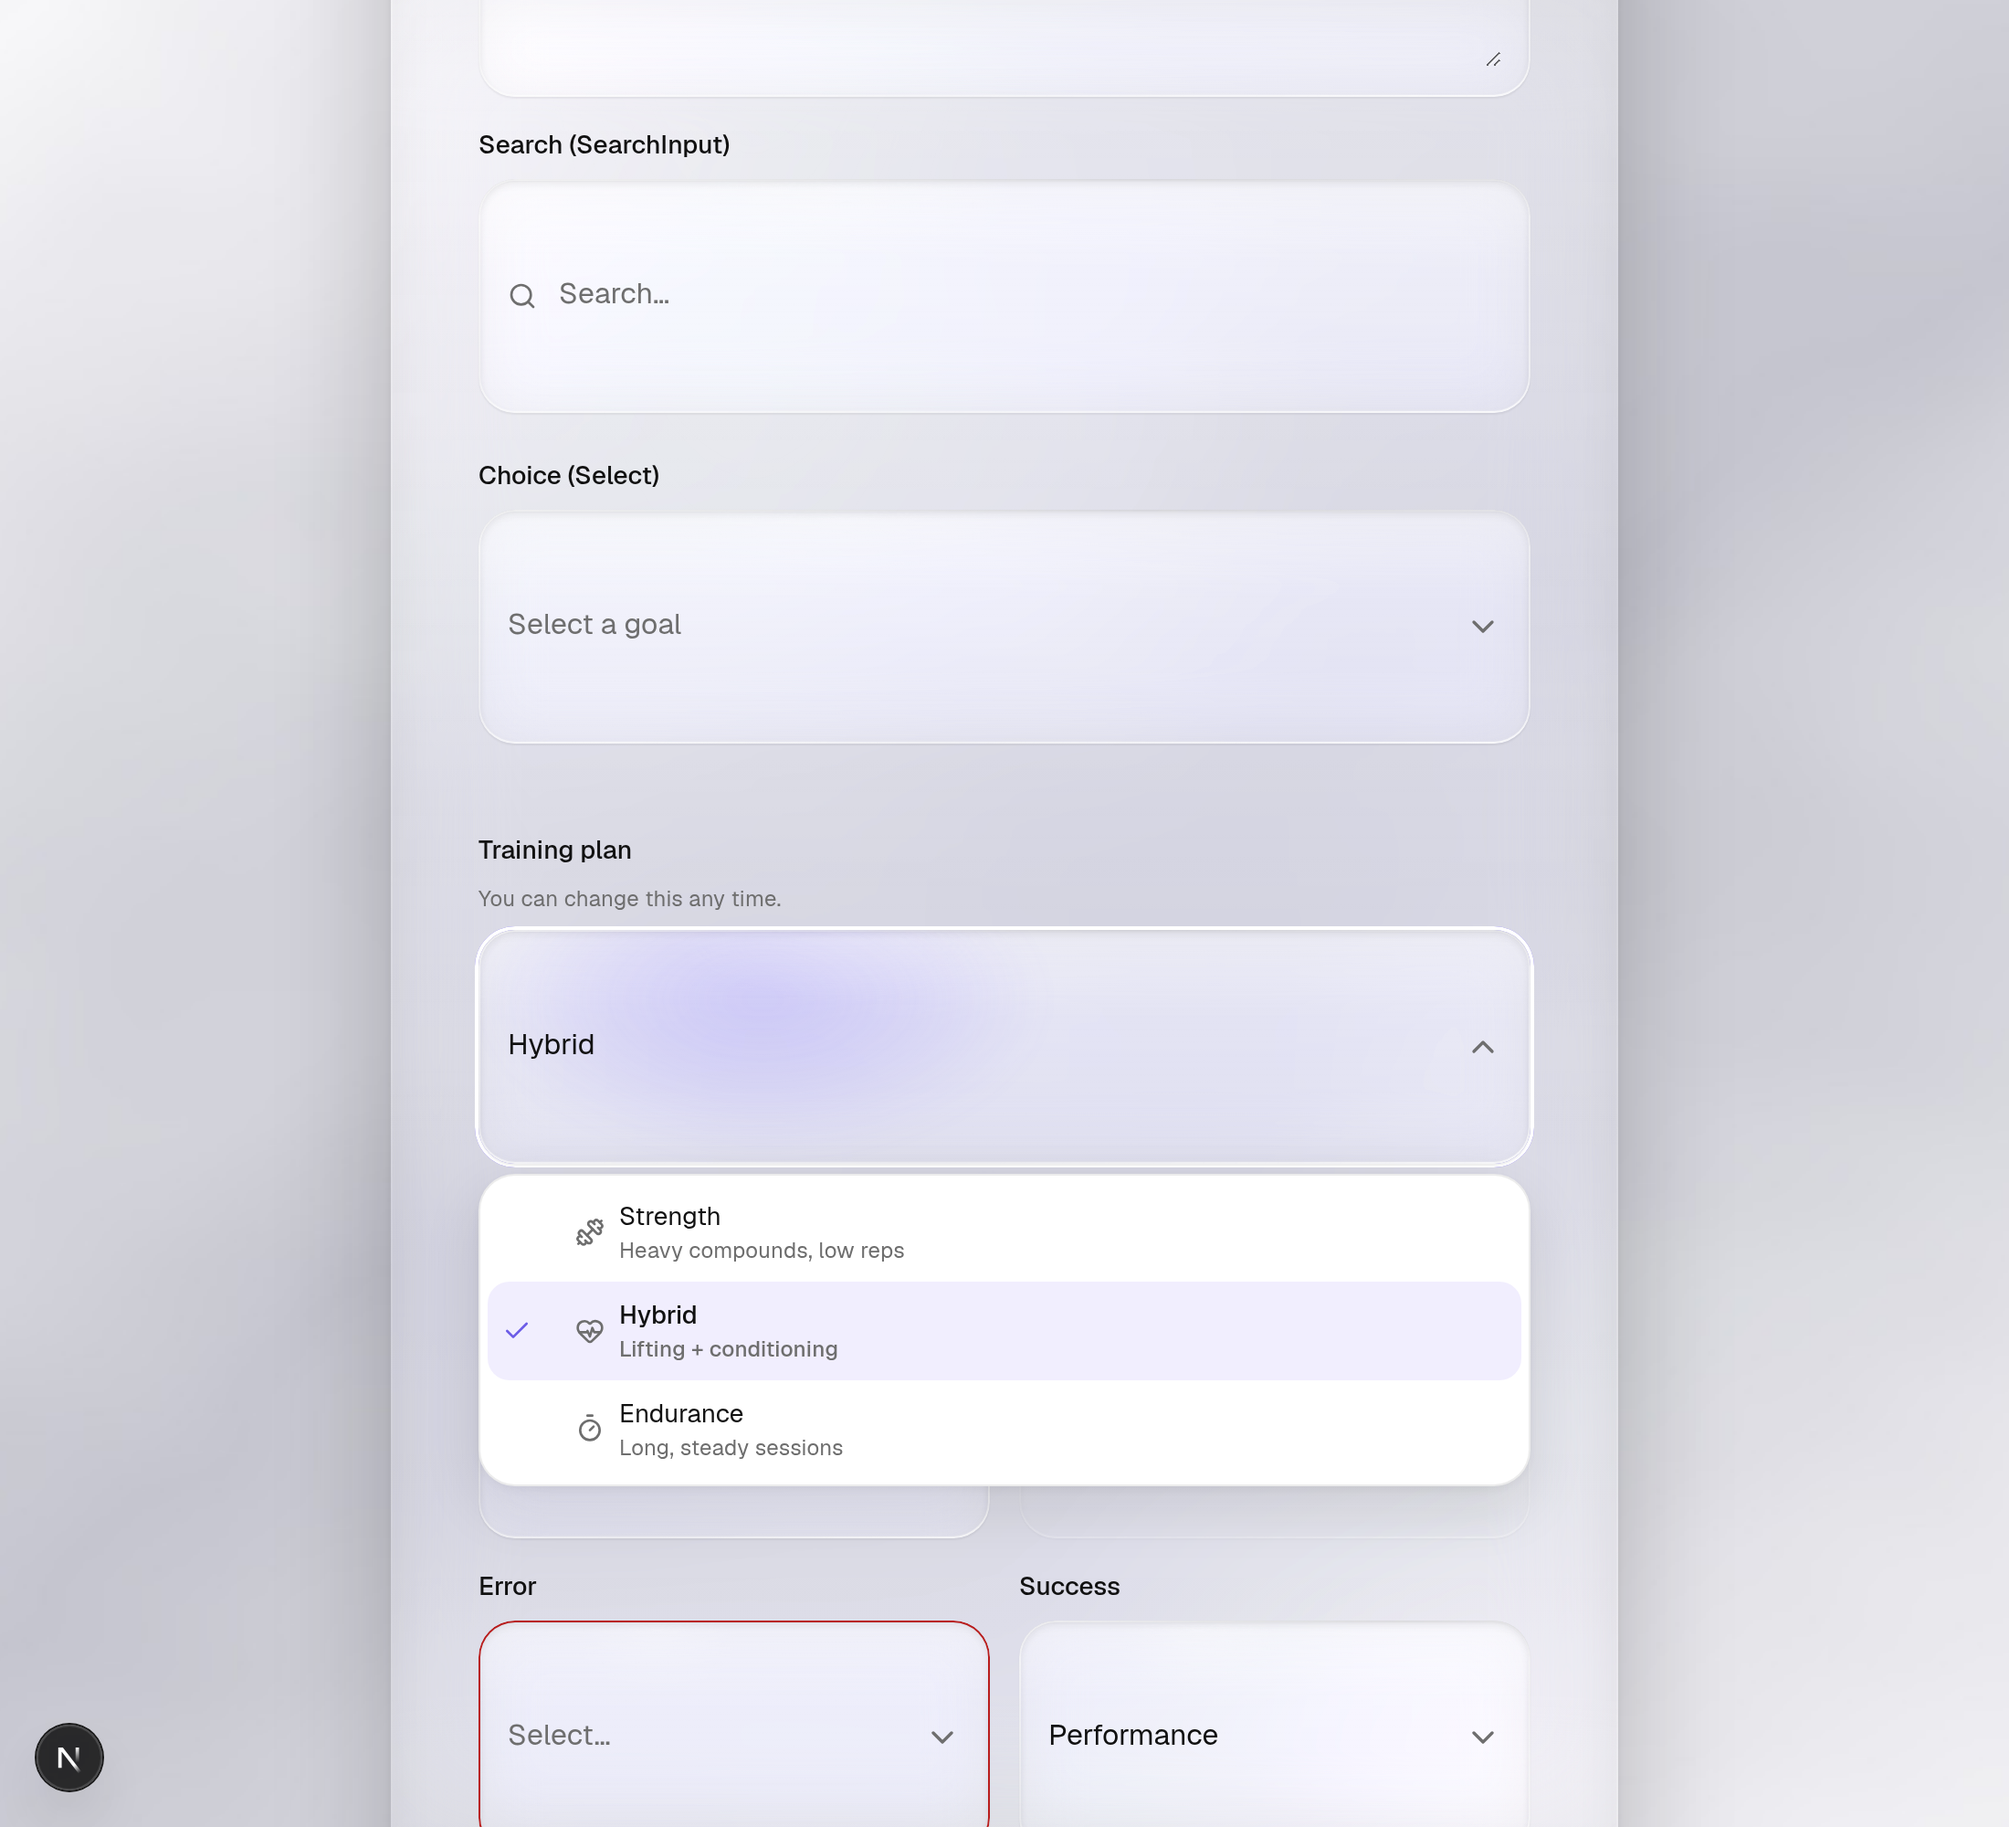
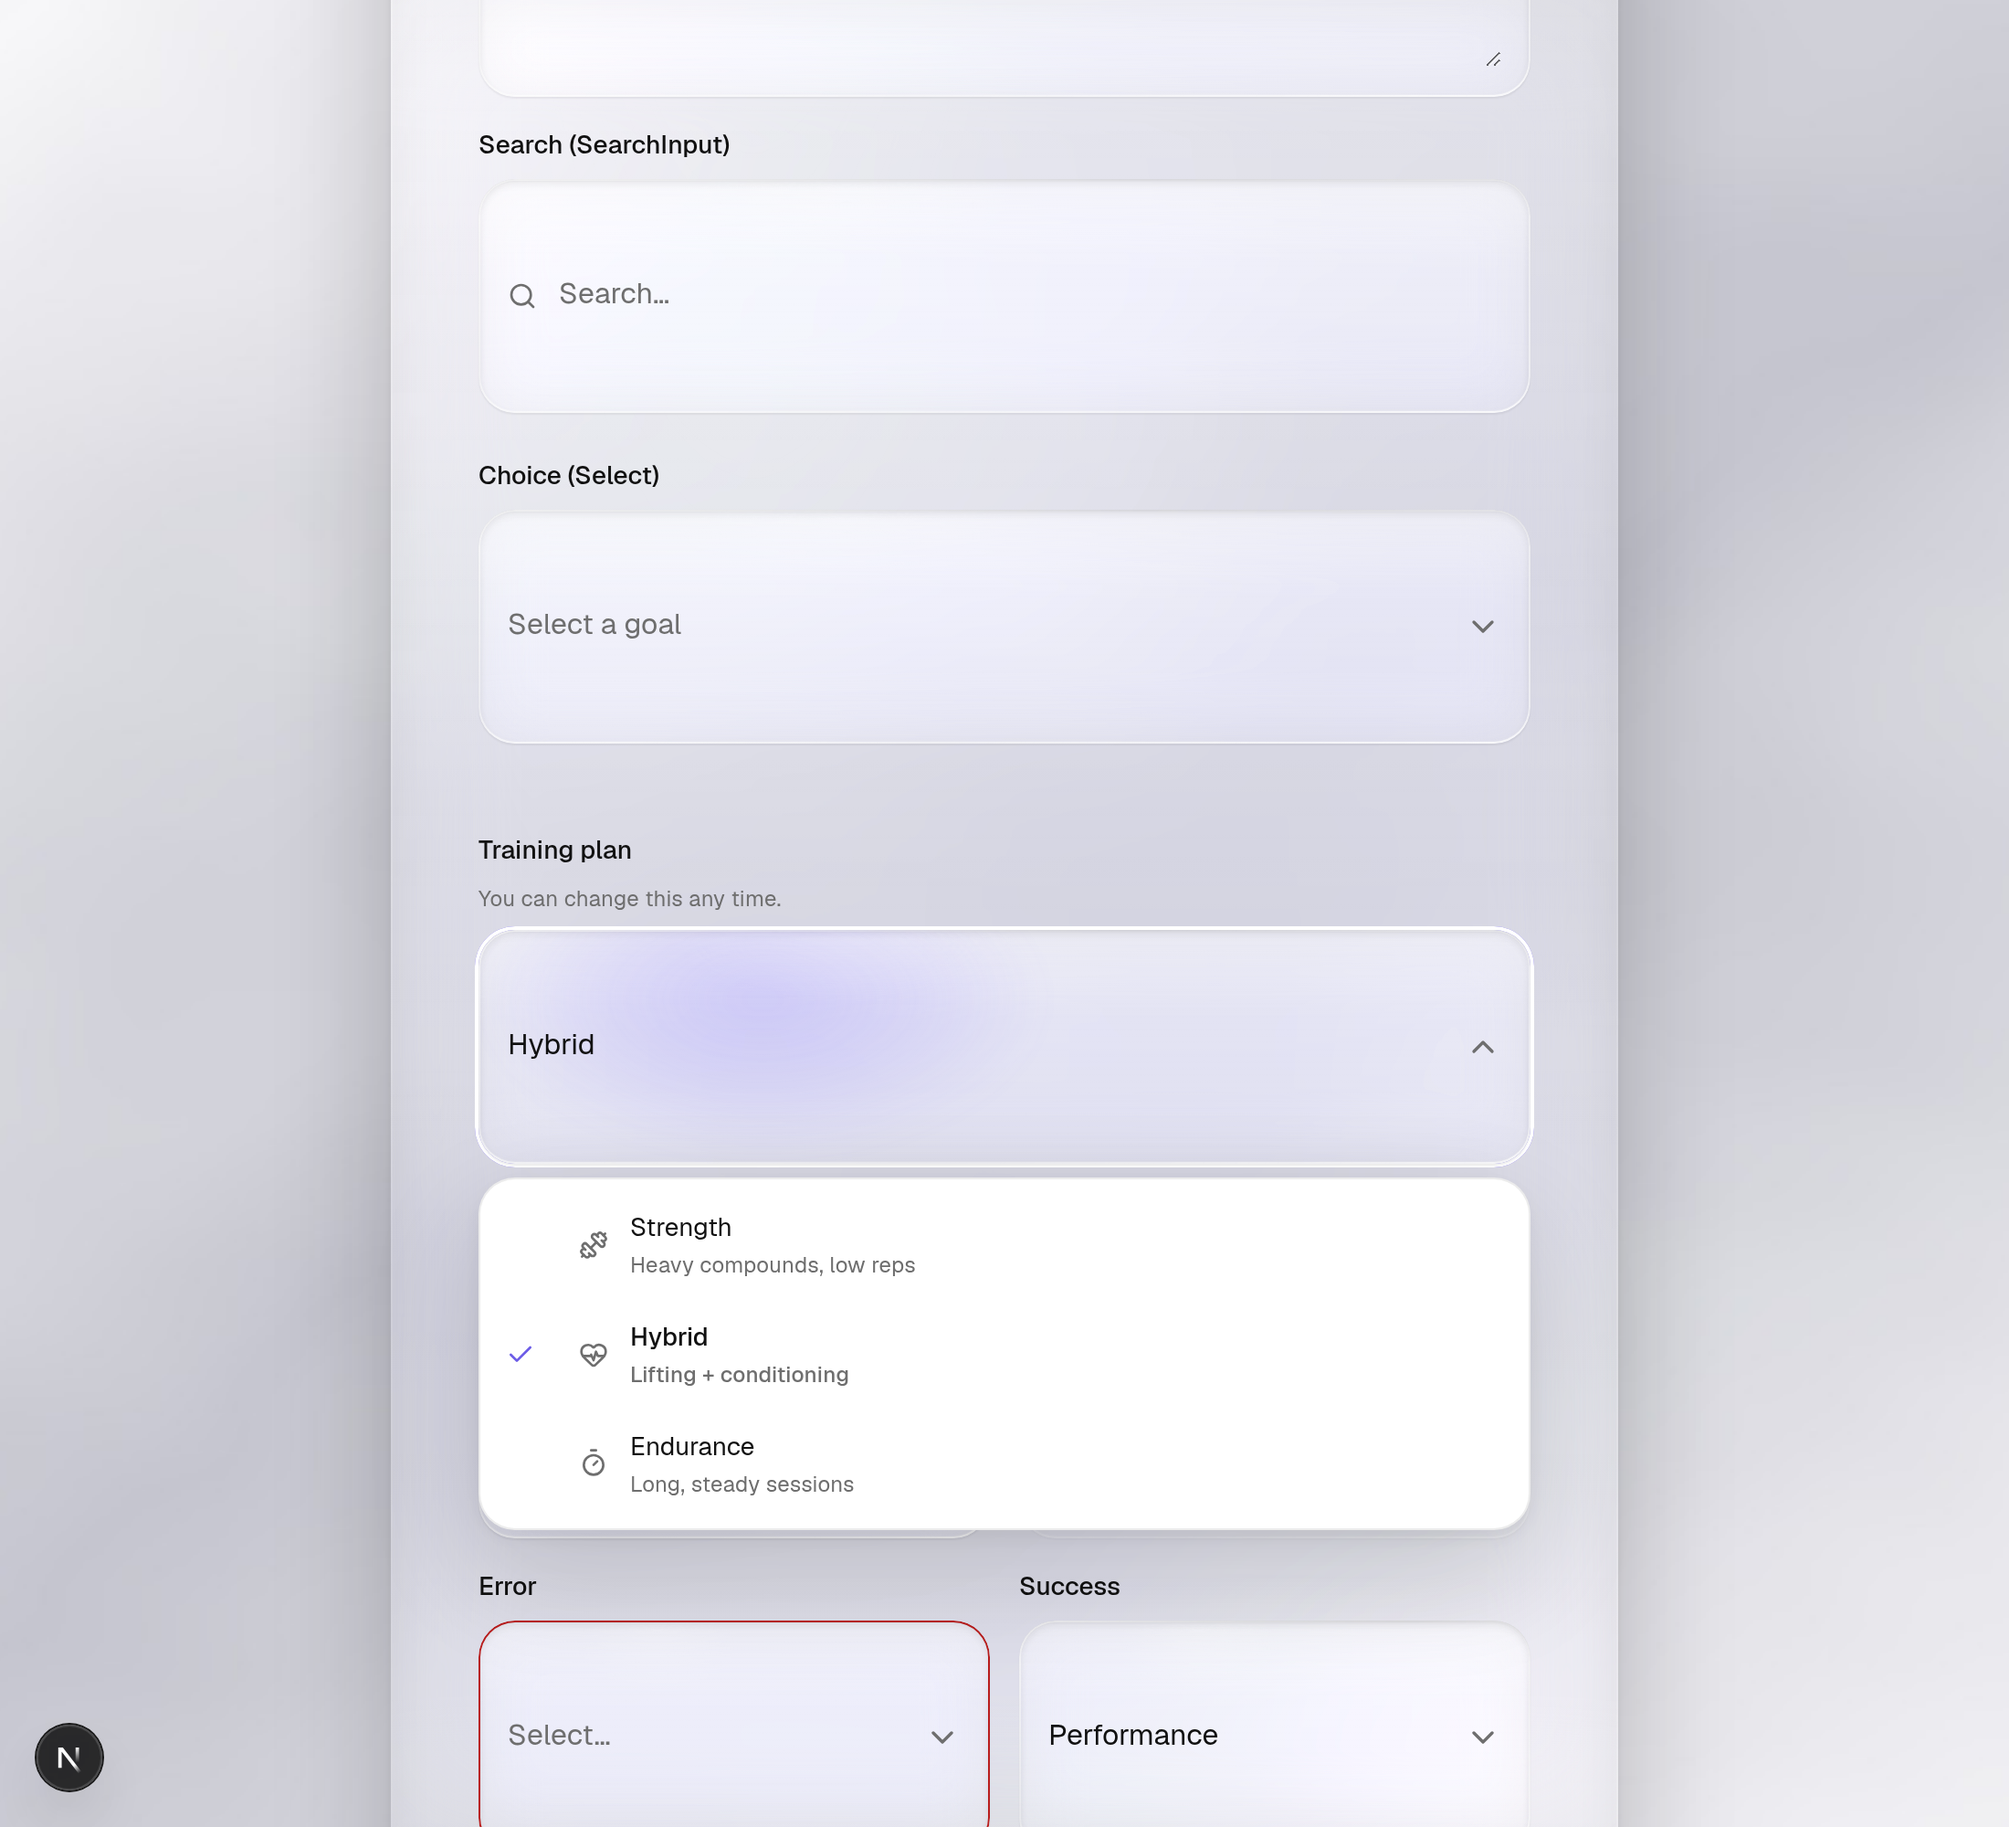
Select: dropdown-only polish — suspended sheet, whisper violet, more air
One final iteration on the Select menu panel only (field untouched):
- Elevation: shadow-3 -> shadow-4 and sideOffset 6 -> 8 so the menu reads
  as a suspended, independent floating sheet (no extra blur or glass).
- Selected row: near-white with only the violet check + font-medium;
  highlight softened to bg-accent-subtle/45 (a whisper of captured light,
  like the Button Primary halo — not a violet fill).
- Air: viewport p-1 -> p-1.5, item py-2 -> py-2.5, gap-2 -> gap-3, and a
  title/description gap-0.5 for clearer icon/title/description rhythm.

type-check, lint, build all pass. Proof recaptured at /dev/select.

Claude-Session: https://claude.ai/code/session_01JSKxADquWPscGGWu93W5g6

Changed region(s): [[0.2164, 0.651, 0.7727, 0.868]]

diff --git a/src/components/ui/select.tsx b/src/components/ui/select.tsx
@@ -51,8 +51,10 @@ const SelectItem = forwardRef<
     <SelectPrimitive.Item
       ref={ref}
       className={cn(
-        'relative flex cursor-pointer select-none items-center gap-2 rounded-sm py-2 pl-8 pr-3 text-body-sm text-text outline-none',
-        'data-[highlighted]:bg-accent-subtle data-[state=checked]:font-medium',
+        'relative flex cursor-pointer select-none items-center gap-3 rounded-sm py-2.5 pl-8 pr-3 text-body-sm text-text outline-none',
+        // Violet as a signature, not a fill — a whisper of captured light on the
+        // highlighted/selected row (like the Button Primary halo), black text kept.
+        'data-[highlighted]:bg-accent-subtle/45 data-[state=checked]:font-medium',
         'data-[disabled]:pointer-events-none data-[disabled]:opacity-40',
         className,
       )}
@@ -66,10 +68,10 @@ const SelectItem = forwardRef<
       {icon != null && (
         <span className="inline-flex shrink-0 text-text-tertiary">{icon}</span>
       )}
-      <span className="min-w-0 flex-1">
+      <span className="flex min-w-0 flex-1 flex-col gap-0.5">
         <SelectPrimitive.ItemText>{children}</SelectPrimitive.ItemText>
         {description && (
-          <span className="block truncate text-caption text-text-tertiary">
+          <span className="truncate text-caption text-text-tertiary">
             {description}
           </span>
         )}
@@ -309,9 +311,12 @@ const SelectRoot = forwardRef<HTMLButtonElement, SelectProps>(function Select(
         <SelectPrimitive.Portal>
           <SelectPrimitive.Content
             position="popper"
-            sideOffset={6}
+            sideOffset={8}
             className={cn(
-              'z-dropdown overflow-hidden rounded-md border border-border bg-surface-raised shadow-3',
+              // Detail #1 — read the menu as a suspended, independent floating
+              // sheet: not more blur, not more glass; a stronger elevation
+              // shadow so the plane clearly hovers above the field.
+              'z-dropdown overflow-hidden rounded-md border border-border bg-surface-raised shadow-4',
               'w-[var(--radix-select-trigger-width)]',
               'max-h-[min(var(--radix-select-content-available-height),20rem)]',
             )}
@@ -319,7 +324,7 @@ const SelectRoot = forwardRef<HTMLButtonElement, SelectProps>(function Select(
             <SelectPrimitive.ScrollUpButton className="flex items-center justify-center py-1 text-text-tertiary">
               <Icon icon={ChevronUp} size="sm" aria-hidden />
             </SelectPrimitive.ScrollUpButton>
-            <SelectPrimitive.Viewport className="p-1">
+            <SelectPrimitive.Viewport className="p-1.5">
               {items}
             </SelectPrimitive.Viewport>
             <SelectPrimitive.ScrollDownButton className="flex items-center justify-center py-1 text-text-tertiary">

diff --git a/docs/DISCIPLINE_UI_ROADMAP.md b/docs/DISCIPLINE_UI_ROADMAP.md
@@ -46,7 +46,7 @@ Controls you read and fill (maximum legibility; the glass recedes).
 |---|---|---|
 | `Input` | **FROZEN** | The official Control reference (`/dev/input`). Role fixed by Grammar §2/§5 — not Micro. |
 | `Textarea` | **FROZEN** | Multiline sibling of Input (same parent `ControlSurface`, material verbatim). Production API: label · description · helperText · error · success · required · maxLength · showCharacterCount · autoResize (minRows/maxRows → grow then scroll) · disabled · readOnly. Proof: `/dev/textarea`. Visually validated + frozen 2026-07-01. |
-| `Select` / `NativeSelect` | Built · **visual validation PASS** | Field-level dropdown, **sibling of Input** (GlassSurface → .ds-control → ControlSurface → Select — NOT derived from Input). Closed trigger composes `controlHostClass` + `<ControlSurface/>` → indistinguishable from Input/Textarea/SearchInput. On Radix Select. API: label · description · placeholder · helperText · error · success · required · disabled · readOnly · loading · value · defaultValue · onValueChange · options[] (value/label/icon/description/disabled) or `Select.Item` children; chevron rotates on open; menu is a token raised surface (not glass). Proof: `/dev/select`. Not yet frozen. |
+| `Select` / `NativeSelect` | Built · **visual validation PASS** | Field-level dropdown, **sibling of Input** (GlassSurface → .ds-control → ControlSurface → Select — NOT derived from Input). Closed trigger composes `controlHostClass` + `<ControlSurface/>` → indistinguishable from Input/Textarea/SearchInput. On Radix Select. API: label · description · placeholder · helperText · error · success · required · disabled · readOnly · loading · value · defaultValue · onValueChange · options[] (value/label/icon/description/disabled) or `Select.Item` children; chevron rotates on open; menu is a token raised surface (not glass) — dropdown-only polish 2026-07-01: suspended floating sheet (`shadow-4` + `sideOffset 8`), near-white selected row (violet ✓ + `font-medium`, whisper highlight), more air (`p-1.5` / `py-2.5` / `gap-3`). Proof: `/dev/select`. Not yet frozen. |
 | `DatePicker` | Built | Control family. |
 | `SearchInput` | **FROZEN** | Search **specialization of Input** (GlassSurface → .ds-control → ControlSurface → Input → SearchInput): renders `<Input>` + search affordances only. API: label · description · helperText · error · success · clearable · loading · shortcut · debounce · onSearch · onClear · disabled · readOnly; Escape clears; `role="search"`. Proof: `/dev/search-input`. Visually validated + frozen 2026-07-01 (quieter ⌘K chip + softer clear button). |
 | `FileInput` | Built | Control family. |

diff --git a/PROJECT_STATE.md b/PROJECT_STATE.md
@@ -201,9 +201,14 @@
 >     readOnly (static full-opacity field) · loading (Spinner replaces chevron) ·
 >     value · defaultValue · onValueChange · options[] (value/label/icon/description/
 >     disabled) or `Select.Item` children. Menu = token raised surface
->     (`bg-surface-raised shadow-3`, popper-aligned, viewport-capped, scroll
->     buttons) — not glass. The old composable exports (SelectTrigger/Content/Value/
->     Group/Item) were removed; the two dev usages migrated to `<Select options>`.
+>     (`bg-surface-raised shadow-4`, popper-aligned `sideOffset={8}`, viewport-capped,
+>     scroll buttons) — not glass. Dropdown-only polish pass (2026-07-01): reads as a
+>     suspended floating sheet (stronger `shadow-4` + `sideOffset 8`, no extra
+>     blur/glass); selected row is near-white with only the violet ✓ + `font-medium`
+>     (highlight a whisper `bg-accent-subtle/45`, not a fill — like the Button Primary
+>     halo); more air (viewport `p-1.5`, item `py-2.5`, `gap-3`, title↔description
+>     `gap-0.5`). Field untouched. The old composable exports (SelectTrigger/Content/
+>     Value/Group/Item) were removed; the two dev usages migrated to `<Select options>`.
 >     Proof: `/dev/select` (family + all states + open menu). `'use client'`.
 >     Awaiting explicit freeze.
 >   - **SearchInput — Control Surface, search SPECIALIZATION of Input. FROZEN
